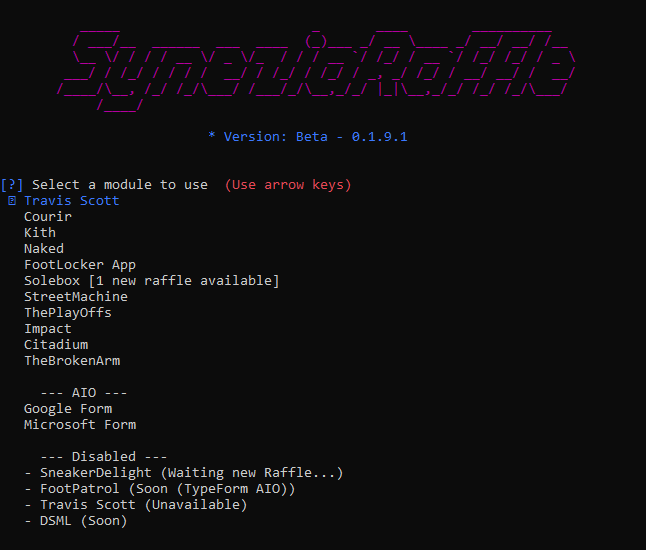
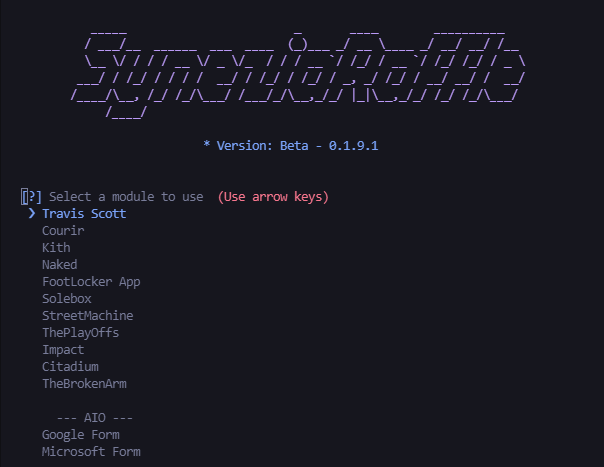
:sparkles: release open source.

diff --git a/srcs/run.py b/srcs/run.py
@@ -35,7 +35,7 @@ class CLI:
 			"Kith",
 			"Naked",
 			"FootLocker App",
-			"Solebox [1 new raffle available]",
+			"Solebox",
 			"StreetMachine",
 			"ThePlayOffs",
 			"Impact",
@@ -43,24 +43,7 @@ class CLI:
 			"TheBrokenArm",
 			PyInquirer.Separator(f"\n     --- AIO ---"),
 			"Google Form",
-			"Microsoft Form",
-			PyInquirer.Separator(f"\n     --- Disabled ---"),
-			{
-				'name': "SneakerDelight",
-				"disabled": "Waiting new Raffle..."
-			},
-			{
-                'name': 'FootPatrol',
-                'disabled': 'Soon (TypeForm AIO)'
-            },
-			{
-                'name': 'Travis Scott',
-                'disabled': 'Unavailable'
-            },
-			{
-                'name': 'DSML',
-                'disabled': 'Soon'
-            }
+			"Microsoft Form"
 		]
 
 		questions = [
@@ -144,7 +127,7 @@ class CLI:
 			from modules.TravisScott import TravisScott
 
 			TravisScott()
-		# Logger.info("This modules is unavailable at this time.")
+			
 		return self.promptModule()
 
 	def __init__(self):

diff --git a/README.md b/README.md
@@ -1,0 +1,59 @@
+# 🚀 SyneziaRaffles
+> An open source raffle bot made to increase the chance of winning limited sneaker raffles by automating entries.
+
+![Synezia](https://github.com/iSnkh/SyneziaRaffles/blob/master/resources/Synezia_MainMenu.png?raw=true)
+
+
+# 🏄♂ Quick Start
+
+Prerequisites: [Python 3 + PIP](https://www.python.org/downloads/) and [Git](https://git-scm.com/downloads)
+
+> clone/fork SyneziaRaffles
+
+```bash
+git clone https://github.com/iSnkh/SyneziaRaffles
+```
+
+> install and start SyneziaRaffles
+
+```bash
+cd SyneziaRaffle
+pip3 install -r requirements.txt
+python srcs/run.py
+```
+
+# 📚 Links
+
+- [Website](https://synezia.com)
+- [Download](https://cdn.discordapp.com/attachments/827984372736983090/940232734243164220/SyneziaRaffle.exe)
+- [Guide](https://synezia.gitbook.io/syneziasoft/)
+- [Twitter](https://twitter.com/SyneziaSoft)
+- [Discord](https://discord.gg/hRxp4Ka8xF)
+
+# 🛠 Build
+You need to install [PyInstaller](https://pyinstaller.readthedocs.io/en/stable/installation.html) & [PyArmor](https://github.com/dashingsoft/pyarmor) before
+
+```bash
+# PYFIGLET PATH: path to pyfiglet directory
+# RANDOM UA PATH: path to random user agent directory
+# ICO PATH: path to your logo in .ico
+# NAME: name of the executable 
+
+pyarmor pack --clean -e '--onefile --hidden-import pyfiglet --add-data {PYFIGLET PATH} --add-data {RANDOM UA PATH} --icon {ICO PATH}' srcs/main.py --name {NAME}
+```
+
+An example, i use that to compile the Client.
+The folder *libs* contains source code of random_user_agent and pyfiglet 
+```bash
+pyarmor pack --clean -e '--onefile --hidden-import pyfiglet --add-data "./libs/pyfiglet;./pyfiglet" --add-data "./libs/random_user_agent;./random_user_agent" --icon icon.ico' srcs/main.py --name SyneziaRaffle
+```
+
+# 💌 P.S.
+
+SyneziaRaffles was a free software in beta that helped to checkout more than 1000+ pairs. The best modules was FootLocker App, TheBrokenArm and NakedCPH.
+
+The code is really bad, i have started to learn Python in December 2020 and i have release Synezia the 4 February 2021. 
+
+I release it now, because when i started to make my own Sneakers Bot i haven't found how to do it like how to compile exe, how to deal with requests. The code is really outdated, i advice you to not use it but take a look to learn. It missing some stuffs like Server (License System) and Monitors
+
+For any commercial purpose feel free to reach me using [Twitter](https://twitter.com/7eith_), by email at seith@synezia.com or using discord seith#0001
